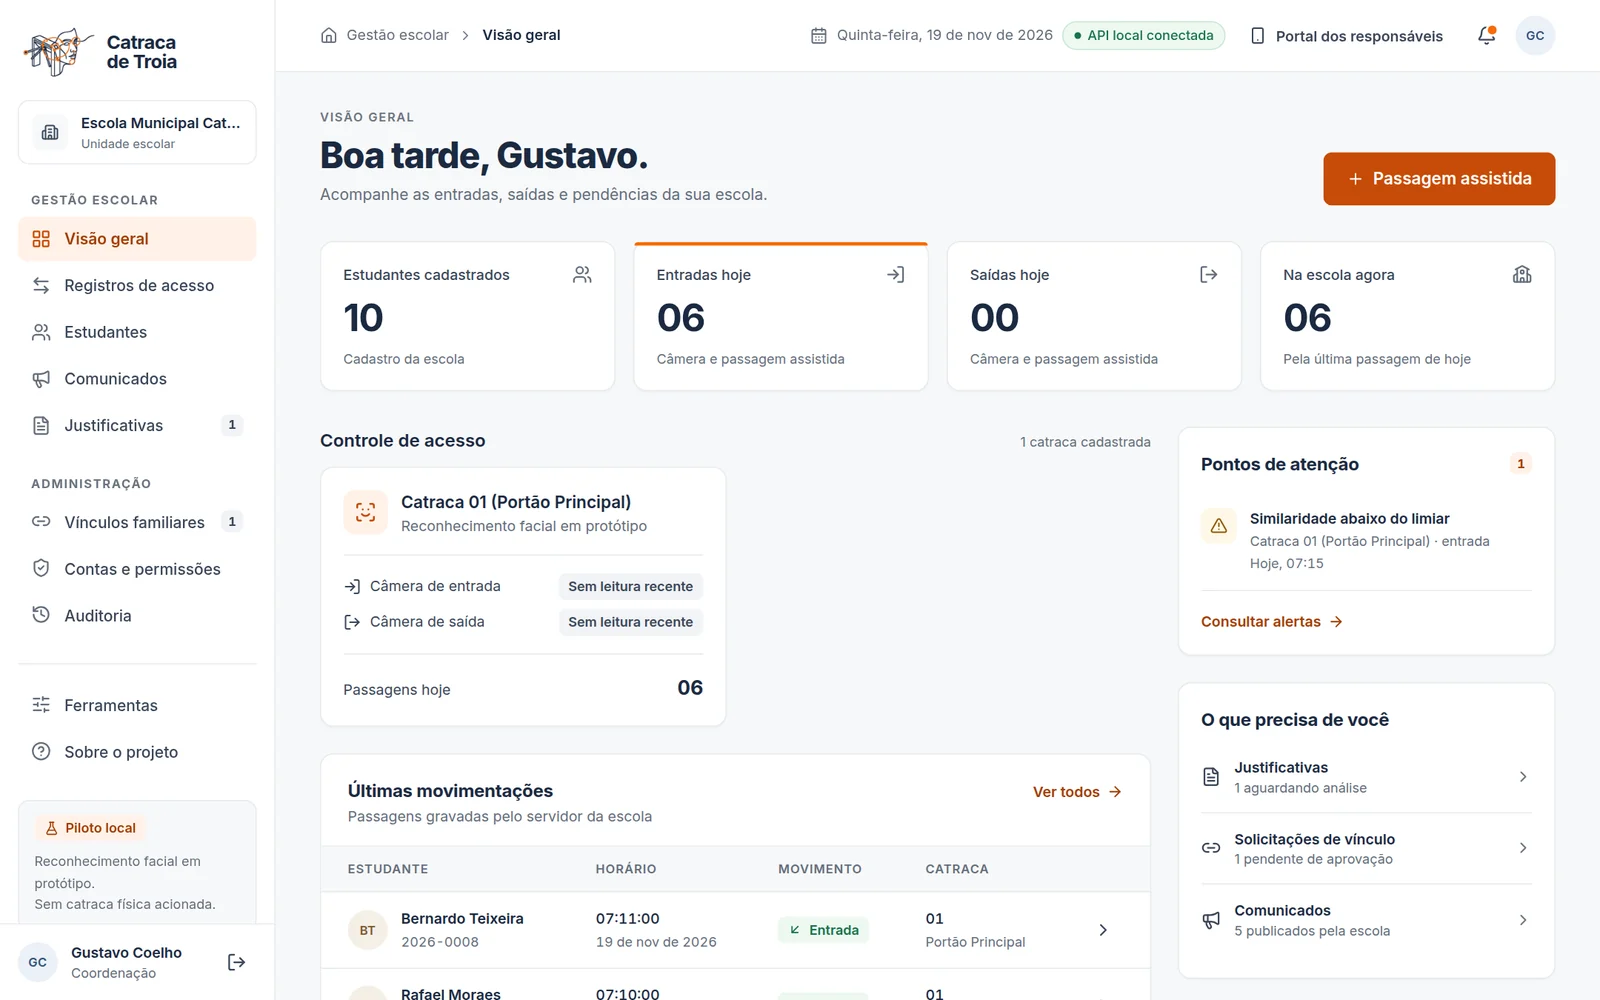
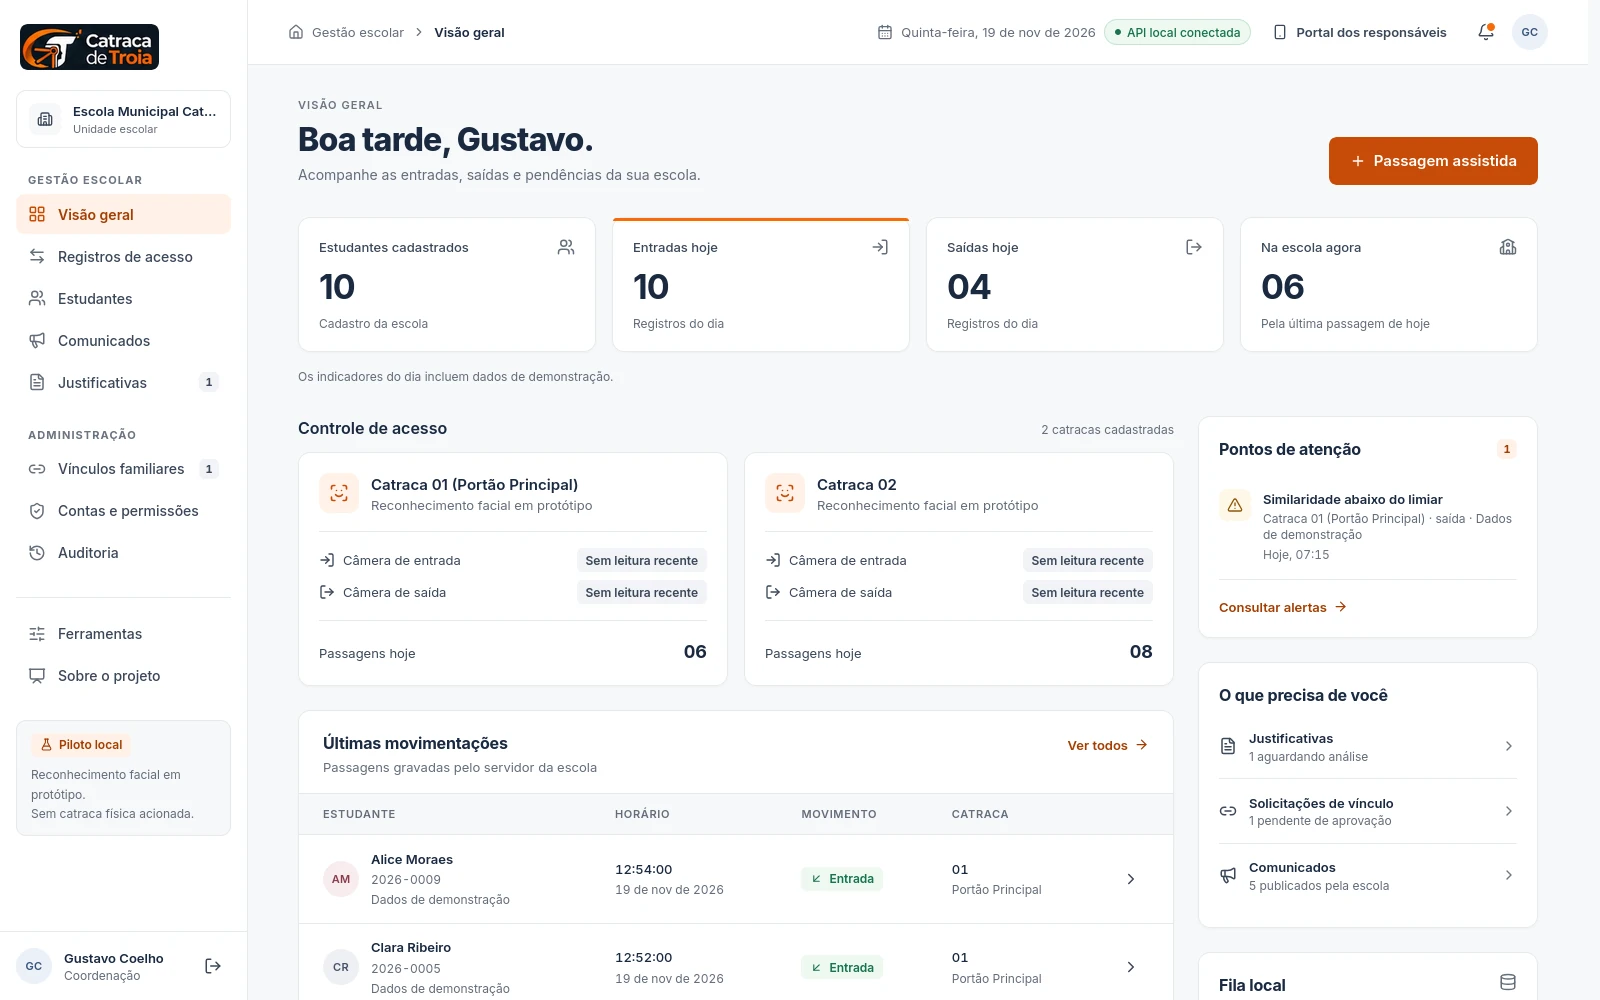
fix(apresentacao): atualize as capturas do painel e do portal

diff --git a/src/components/presentation/slides.tsx b/src/components/presentation/slides.tsx
@@ -214,7 +214,7 @@ const System: React.FC = () => (
       </div>
       <div className="relative">
         <div className="deck-pop" style={d(1)}>
-          <Laptop src="/apresentacao/tela-painel.webp" alt="Tela da visão geral do painel escolar" />
+          <Laptop src="/apresentacao/tela-painel.webp" alt="Visão geral do painel escolar com duas catracas cadastradas" />
         </div>
         <div className="deck-pop absolute -bottom-8 -right-2 w-[28%] min-w-[110px] sm:-right-6" style={d(3)}>
           <Phone src="/apresentacao/tela-portal.webp" alt="Tela inicial do portal dos responsáveis no celular" />
